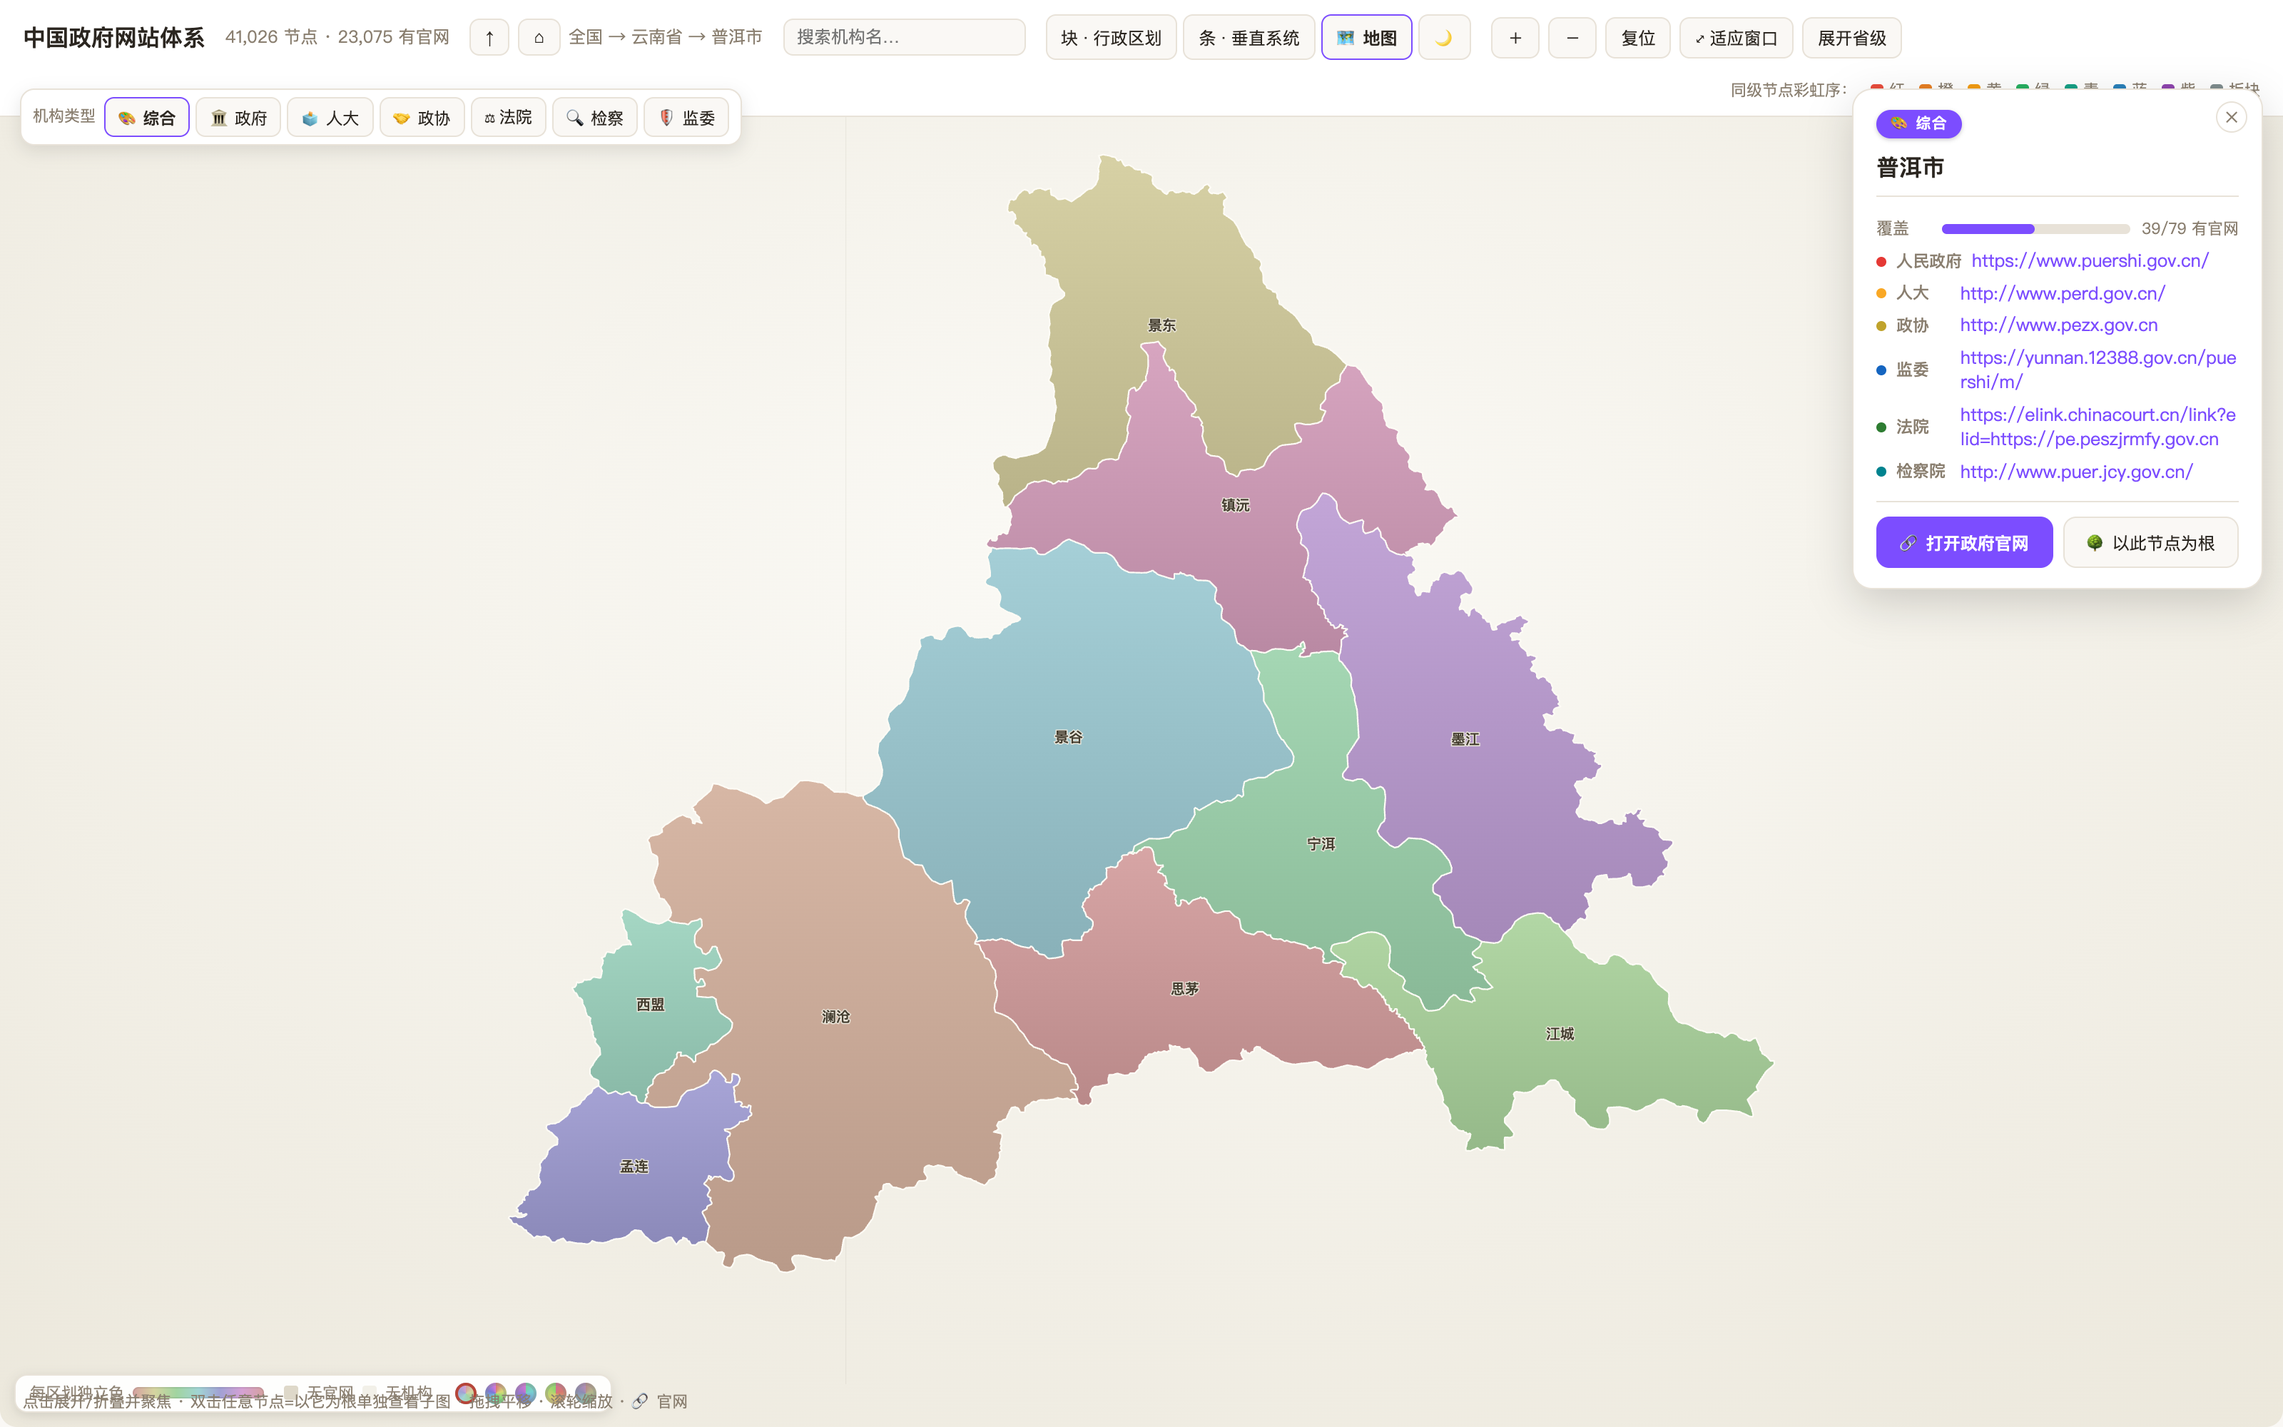
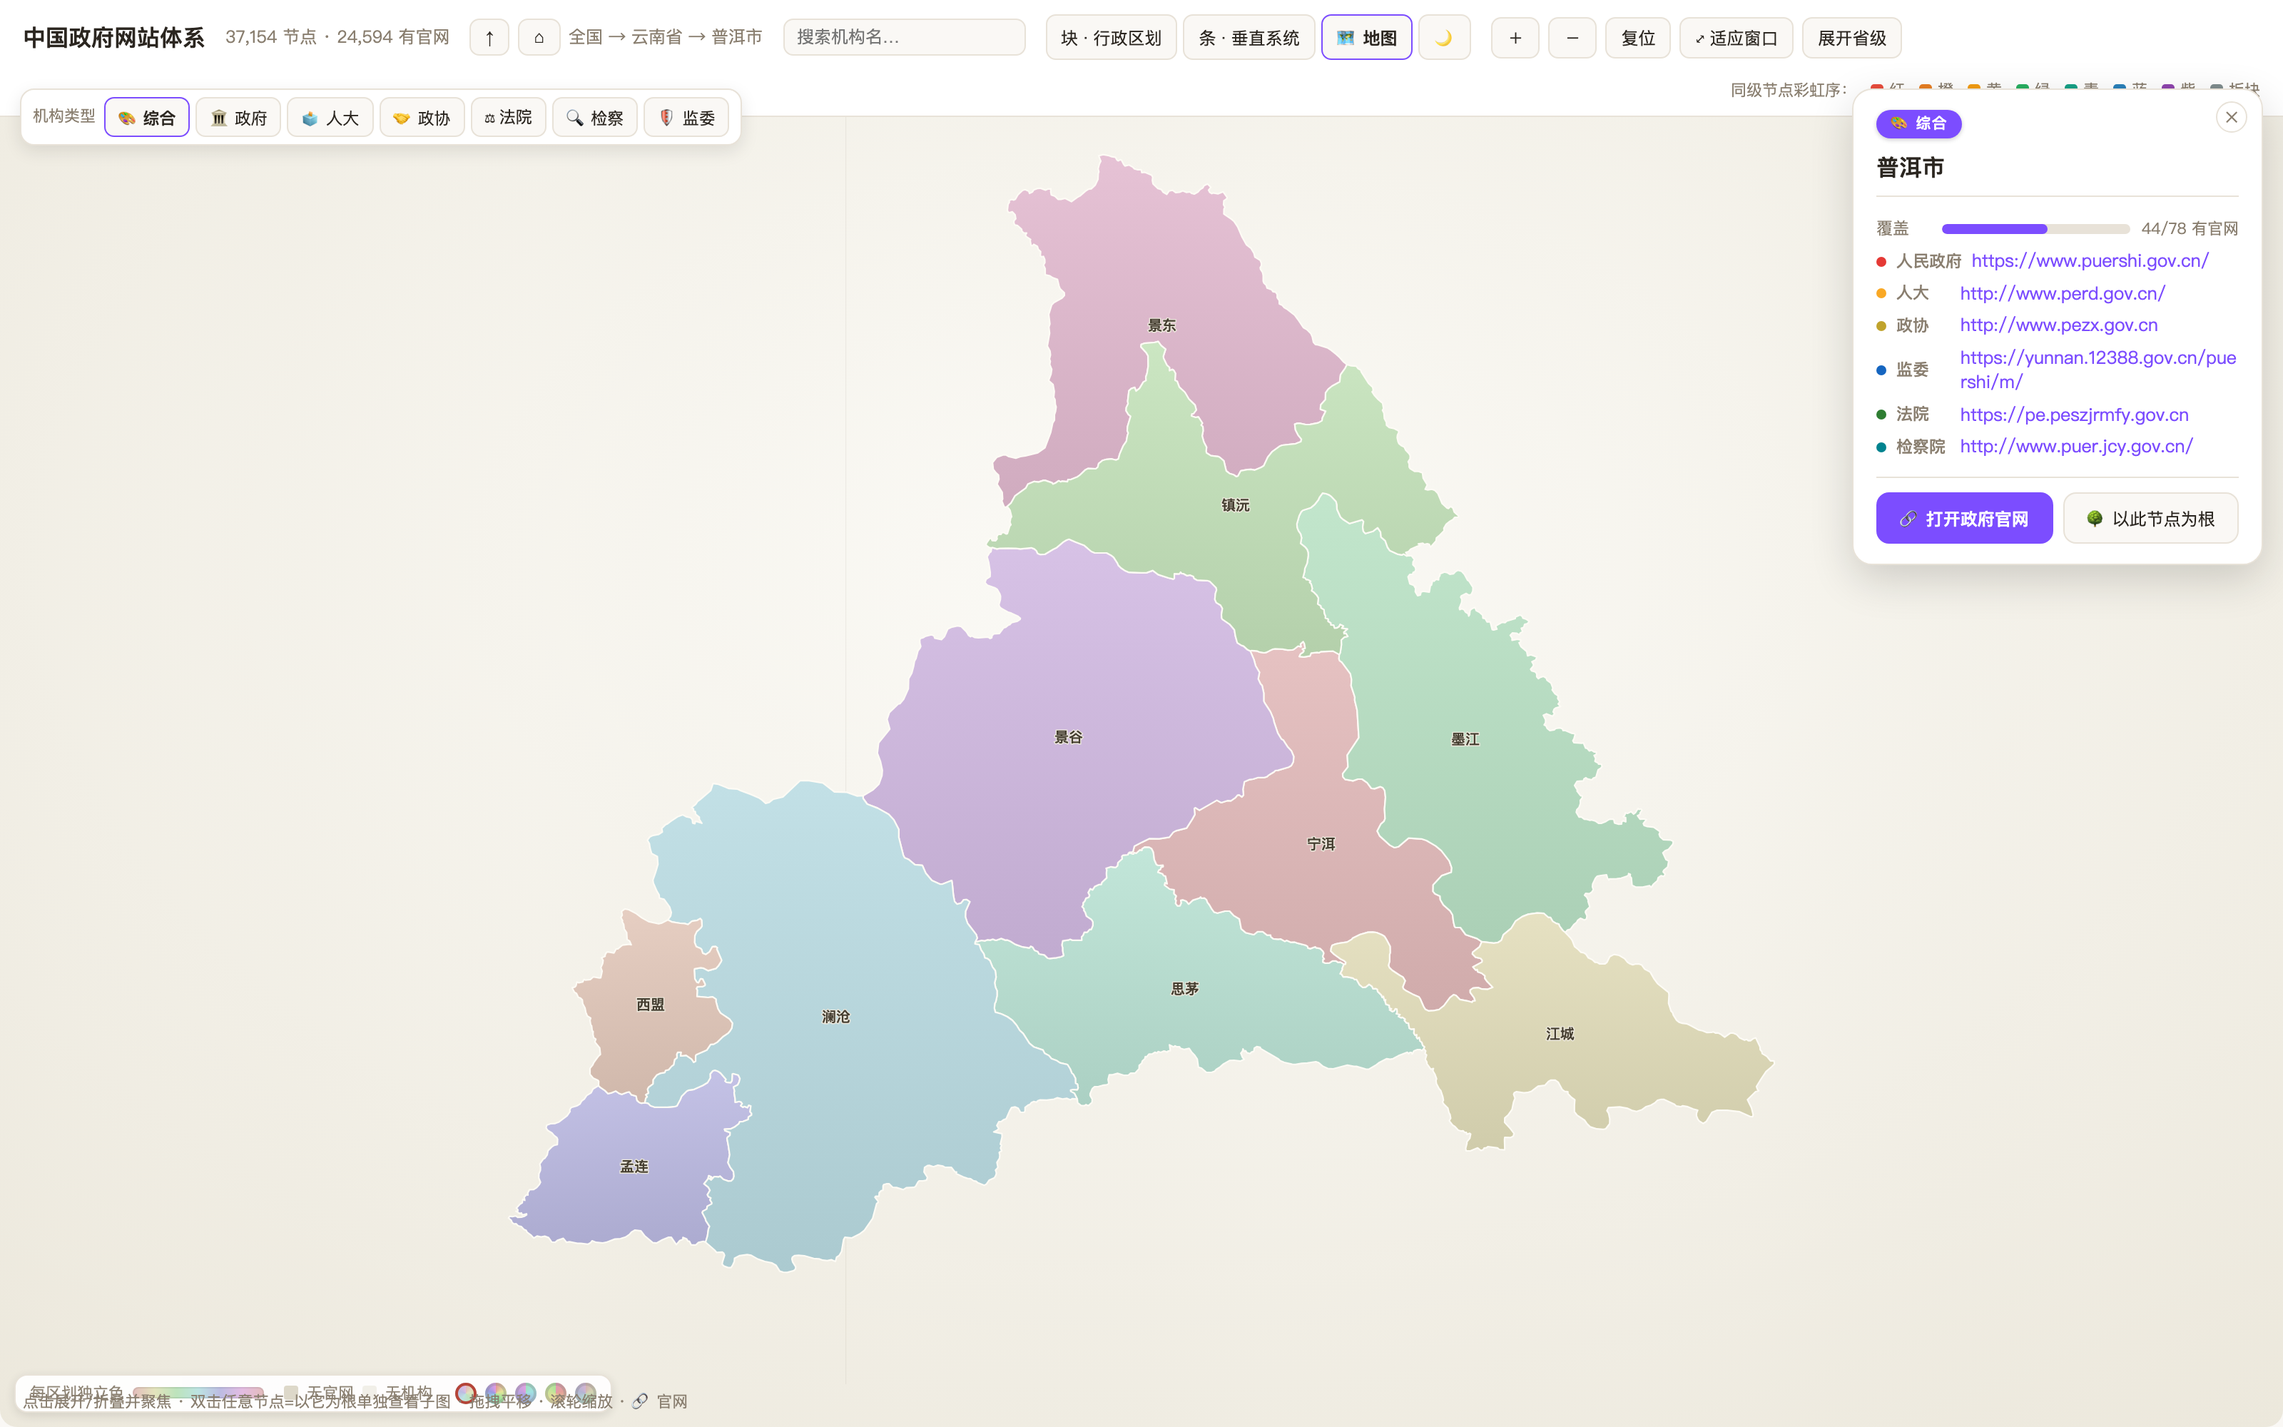
docs: 刷新 README 统计与地图截图（2026-11-18）
- 地图截图按提亮后的配色重新生成（全国 / 四川 / 普洱 / 夜晚，3200×2000），
  顶部节点与有官网数同步为当前数据
- 覆盖统计更新为 2026-11-18 p221 口径：省级 9.84% / 市级 4.76% / 县级 31.66%
- 县级人民政府民政口径 2,760/2,776 = 99.42%（含功能区 97.15%）；未覆盖 16 个
  逐类留痕，新增 11-18 URL 身份核查清除待补的 4 个区县与 2 个功能区形态
- 五系统缺失率、注册表条目/来源/健康状态、树节点数更新为当前值
- 配色说明点名五套方案（粉彩/彩虹/青绿/暖阳/莫兰迪）
- 附带 p99 自检记录（0 问题）

diff --git a/README.md b/README.md
@@ -27,12 +27,13 @@
 
 <br>
 
-[![县级人民政府覆盖率 99.64%](https://img.shields.io/badge/%E5%8E%BF%E7%BA%A7%E4%BA%BA%E6%B0%91%E6%94%BF%E5%BA%9C%E8%A6%86%E7%9B%96%E7%8E%87-99.64%25-2EA44F?style=for-the-badge)](#county-coverage)
+[![县级人民政府覆盖率 99.42%](https://img.shields.io/badge/%E5%8E%BF%E7%BA%A7%E4%BA%BA%E6%B0%91%E6%94%BF%E5%BA%9C%E8%A6%86%E7%9B%96%E7%8E%87-99.42%25-2EA44F?style=for-the-badge)](#county-coverage)
 [![地级市人民政府 100%](https://img.shields.io/badge/%E5%9C%B0%E7%BA%A7%E5%B8%82%E4%BA%BA%E6%B0%91%E6%94%BF%E5%BA%9C-100%25-0A7CFF?style=for-the-badge)](#county-coverage)
 
-**2,768 / 2,778 个县级人民政府拥有官网入口**（民政区划口径，不含开发区 / 高新区 / 示范区
-等功能区节点）。剩余 10 个：三沙海岛区划 ×5、金门县、新设和康 / 和安县，以及万宁、保亭
-两个待补缺口——**没有一个靠猜测补上，全部留名留痕。**
+**2,760 / 2,776 个县级人民政府拥有官网入口**（民政区划口径，不含开发区 / 高新区 / 示范区
+等功能区节点）。未覆盖 16 个全部留名留痕：三沙海岛区划 ×5、金门县、新设和康 / 和安县、
+万宁 / 保亭两个待补缺口（10 个），2026-11-18 全量 URL 身份核查判出跨地区串站后清除、
+正确入口待补的 4 个，以及实体为功能区的 2 个——**没有一个靠猜测补上。**
 
 <br><br>
 
@@ -70,12 +71,12 @@ mass organizations and the health system.</i></sub>
 | 特性 | 说明 |
 |---|---|
 | 🧭 **块 × 条双维树** | 同一机构在行政区划视图与垂直系统视图各出现一次，共用 `site_registry.json` 注册表，一个机构一条记录 |
-| 🏆 **县级覆盖 99.64%** | **2,768 个县级人民政府官网入口**；仅 10 个特殊区划留名（三沙海岛 / 金门 / 新设县），无一猜测 |
+| 🏆 **县级覆盖 99.42%** | **2,760 个县级人民政府官网入口**；未覆盖 16 个全部留名留痕（10 个特殊区划 / 待补、4 个 URL 审计清除待补、2 个功能区形态），无一猜测 |
 | 🗺 **三级下钻地图** | 全国省界 → 省级看市级 → 市级看县级；港澳台、直辖市区县、兵团市等特例均已兼容 |
-| 🎨 **每区划独立配色** | 覆盖率升序 × 黄金角 137.508° 全环展开，相邻覆盖率色距恒定；5 套配色方案、白天 / 夜晚主题 |
+| 🎨 **每区划独立配色** | 覆盖率升序 × 黄金角 137.508° 全环展开，相邻覆盖率色距恒定；粉彩 / 彩虹 / 青绿 / 暖阳 / 莫兰迪 5 套明亮配色、白天 / 夜晚主题 |
 | 🌐 **纯静态、无外链** | 地图为纯手写 SVG（无 ECharts / D3），边界数据本地化惰性加载，支持 `file://` 直开 |
 | 🔍 **来源分级与留痕** | 注册表记录 `source_level`（L1 官网名录 / L2 门户导航 / L3 兜底验证）、来源、快照、验证时间 |
-| 🩺 **健康巡检** | URL 全量巡检 `ok / dead / maintain`，连续两轮 dead 才列名；`verified_at` 记录复验时间 |
+| 🩺 **健康巡检** | URL 全量巡检 `ok / rooted / dead / maintain`，连续两轮 dead 才列名；`verified_at` 记录复验时间 |
 | 📦 **快照与备份** | 采集快照（snapshots）、结构变更前自动备份、发布包三道校验（引用完整 / 限额 / 泄漏） |
 | 🔎 **可核查性** | 提取规则、来源留痕、缺失原因全部随数据发布，宁可空缺也不采信未验证链接 |
 
@@ -133,7 +134,7 @@ mass organizations and the health system.</i></sub>
 ## 📊 数据覆盖
 
 统计由 [`data/p221_url_stats.py`](data/p221_url_stats.py) 自动生成（p22 管线调用，
-**统计生成日期：2026-11-17**），完整报告见 [`data/URL_STATS.md`](data/URL_STATS.md)；
+**统计生成日期：2026-11-18**），完整报告见 [`data/URL_STATS.md`](data/URL_STATS.md)；
 站点右上角「数据健康」面板同步展示。
 「缺失」= 树中该机构**无官网**（`u=""`，列名展示），不代表官网已失效（死链由注册表
 `status` 字段单独承载）。
@@ -142,55 +143,61 @@ mass organizations and the health system.</i></sub>
 
 | 等级 | 机构数 | 有官网 | 缺失 | 缺失率 |
 |---|---:|---:|---:|---:|
-| 省级 | 2,216 | 2,014 | 202 | 9.12% |
-| 市级 | 8,607 | 8,312 | 295 | 3.43% |
-| 县级 | 16,805 | 11,550 | 5,255 | 31.27% |
-| **合计** | **27,628** | **21,876** | **5,752** | **20.82%** |
+| 省级 | 2,216 | 1,998 | 218 | 9.84% |
+| 市级 | 8,335 | 7,938 | 397 | 4.76% |
+| 县级 | 16,805 | 11,484 | 5,321 | 31.66% |
+| **合计** | **27,356** | **21,420** | **5,936** | **21.70%** |
 
 ### 🏆 县级人民政府：王牌指标
 
 <a id="county-coverage"></a>
 
 > 全国 2,900+ 个县级节点、300+ 个市级门户、逐站 JS 渲染 / 下拉 / 别名 / 简称 / 民族语 /
-> 合署更名形态逐一攻克——**县级人民政府官网覆盖率达到 99.64%**，这在公开、可核查的
+> 合署更名形态逐一攻克——**县级人民政府官网覆盖率达到 99.42%**，这在公开、可核查的
 > 政府网站数据中极为罕见。
 
 | 口径 | 覆盖率 | 说明 |
 |---|---:|---|
-| **县级人民政府（民政区划口径）** | **2,768 / 2,778 = 99.64%** | 剔除开发区 / 高新区 / 示范区 / 管理区等非民政区划序列的功能区节点 |
-| 县级人民政府（含功能区，官方统计口径） | 2,833 / 2,910 = 97.35% | p221 自动统计；功能区/管委会多数无独立门户，属正常形态 |
+| **县级人民政府（民政区划口径）** | **2,760 / 2,776 = 99.42%** | 剔除开发区 / 高新区 / 示范区 / 管理区等非民政区划序列的功能区节点 |
+| 县级人民政府（含功能区，官方统计口径） | 2,827 / 2,910 = 97.15% | p221 自动统计；功能区/管委会多数无独立门户，属正常形态 |
 | 地级市人民政府 | 333 / 333 = 100% | 全国 333 个地级市（地区 / 州 / 盟）全部覆盖 |
 | 省级人民政府 | 32 / 32 = 100% | 31 省区市 + 新疆兵团（台湾省无大陆政府门户，另计） |
 | 直辖市辖区 | 73 / 74 = 98.65% | 渝北区因 2025 年区划调整并入两江新区，机构本身已不存在 |
 
-未覆盖的 10 个县级单位全部**留名 + 留痕**，无一猜测：
+未覆盖的 16 个县级单位全部**留名 + 留痕**，无一猜测：
 
 - 三沙市西沙区、南沙区、西沙群岛、南沙群岛、中沙群岛（5 个）：海岛区划，无县级政府门户网站；
 - 金门县：实际由台湾当局管辖，无大陆人民政府门户；
 - 和康县、和安县（新疆和田）：新设县，官网尚未建成；
-- 万宁市、保亭黎族苗族自治县（海南）：待补数据缺口，已列入采集清单。
+- 万宁市、保亭黎族苗族自治县（海南）：待补数据缺口，已列入采集清单；
+- 石家庄市桥西区、连云港市海州区、铜陵市郊区、同仁市（青海黄南）：2026-11-18 全量
+  URL 身份核查判出跨地区串站（错挂张家口桥西区、阜新海州区、阳泉郊区等站）后清除，
+  正确入口待补——**宁可空缺，不留错链**；
+- 吉林中国新加坡食品区、商丘豫东综合物流产业聚集区：实体为功能区 / 聚集区，
+  无独立人民政府门户。
 
-> 换句话说：**除体制性无官网和新设县外，中国大陆每一个县级人民政府的官网入口都在这里。**
-> 这 2,768 个入口均来自官方页面真实 HTML（上级名录 / 门户导航提取，SERP 仅作线索并经
+> 换句话说：**除体制性无官网、新设县和 4 个审计清除待补的区县外，中国大陆每一个县级
+> 人民政府的官网入口都在这里。**
+> 这 2,760 个入口均来自官方页面真实 HTML（上级名录 / 门户导航提取，SERP 仅作线索并经
 > 标题身份验证），不是搜索结果拼凑，更不是域名猜测。
 
 ### 分系统 × 等级 缺失率
 
 | 系统 | 省级 | 市级 | 县级 | 合计 |
 |---|---:|---:|---:|---:|
-| 政府门户 | 0.00% | 0.25% | 2.65% | 2.33% |
-| 政府部门（厅局 / 市局） | 0.00% | 0.00% | — | 0.00% |
-| 人大 | 0.00% | 15.80% | 69.20% | 61.80% |
-| 政协 | 0.00% | 33.33% | 82.66% | 75.65% |
-| 监委 / 纪委 | 0.00% | 5.93% | 4.14% | 4.32% |
-| 法院 | 0.00% | 8.15% | 13.60% | 12.78% |
-| 检察院 | 0.00% | 9.38% | 16.73% | 15.65% |
-| 群团 | 25.92% | 0.00% | — | 19.50% |
+| 政府门户 | 0.00% | 0.49% | 2.85% | 2.54% |
+| 政府部门（厅局 / 市局） | 0.40% | 1.08% | — | 0.96% |
+| 人大 | 0.00% | 15.80% | 69.63% | 62.18% |
+| 政协 | 0.00% | 33.33% | 83.05% | 75.99% |
+| 监委 / 纪委 | 0.00% | 8.89% | 5.11% | 5.54% |
+| 法院 | 0.00% | 8.15% | 13.78% | 12.94% |
+| 检察院 | 0.00% | 9.63% | 16.91% | 15.83% |
+| 群团 | 27.94% | 14.53% | — | 24.62% |
 | 民主党派 | 24.70% | — | — | 24.70% |
 
-> **读法**：政府门户与政府部门已基本全覆盖（缺失率 ≤ 2.65%）；县级监委通过中央纪委
-> 12388 举报网站名录体系补齐至 **95.9% 有官网**（2,664 / 2,779）；市级监委 94.1%
-> （381 / 405）。县级人大 / 政协仍是最大缺口（缺失 69.2% / 82.7%），原因有两层：
+> **读法**：政府门户与政府部门已基本全覆盖（缺失率 ≤ 2.85%）；县级监委通过中央纪委
+> 12388 举报网站名录体系补齐至 **94.9% 有官网**（2,637 / 2,779）；市级监委 91.1%
+> （369 / 405）。县级人大 / 政协仍是最大缺口（缺失 69.6% / 83.1%），原因有两层：
 > ① 区县人大、政协绝大多数没有独立门户，其内容以「领导之窗 / 建议提案办理 /
 > 会议报道」等**门户栏目**形式挂在县政府门户下——2026-11-17 全量复核把这类
 > 栏目页（约 400 条）判为「非机构官网」清出，宁缺毋滥；② 真正独立建站的县级
@@ -202,11 +209,11 @@ mass organizations and the health system.</i></sub>
 
 | 指标 | 数值 |
 |---|---:|
-| 官网注册记录（去重后，有 URL） | 25,364 |
-| 注册表条目（含审计清空的历史条目） | 25,815 |
-| 来源 L1 官网名录 / L2 门户导航 / L3 兜底验证 | 8,873 / 14,112 / 2,379 |
-| 健康状态 ok / maintain / dead / 未巡检 | 22,992 / 42 / 517 / 1,813 |
-| 树节点（块树 + 条树，含分组容器） | 37,426 + 17,687 |
+| 官网注册记录（去重后，有 URL） | 25,281 |
+| 注册表条目（含审计清空的历史条目） | 25,904 |
+| 来源 L1 官网名录 / L2 门户导航 / L3 兜底验证 | 8,963 / 14,374 / 2,567 |
+| 健康状态 ok / rooted / maintain / dead / 未巡检 | 22,671 / 284 / 28 / 510 / 1,788 |
+| 树节点（块树 + 条树，含分组容器） | 34,650 + 15,345 |
 | 行政区划边界文件（DataV + 港澳 + 台湾） | 360+ / 约 27 MB |
 
 ---
@@ -475,7 +482,7 @@ svg
 
 1. **深聚合统计** `calcStats(t)`：块树 DFS——每个区划节点递归整棵子树，按机构类型统计「有官网/总数」（省=全省辖域、市=全市、县=全县）；兼容省级节点 `t="group"` 挂 u、直辖市辖区 `c=直辖市辖区` 等形态
 2. **取值** `covOf(name)`：当前类型覆盖率；名称经 `baseName` 归一（剥行政区后缀+民族修饰+「（…）」尾注）——geo 特征名、树节点名、官网简称三方互通
-3. **每区划独立色**：有数据的区划按覆盖率升序 × 黄金角（137.508°）在色环展开，相邻覆盖率色距恒定；灰 = 无官网/无机构（5 套配色方案可在图例切换）
+3. **每区划独立色**：有数据的区划按覆盖率升序 × 黄金角（137.508°）在色环展开，相邻覆盖率色距恒定；灰 = 无官网/无机构（粉彩 / 彩虹 / 青绿 / 暖阳 / 莫兰迪 5 套明亮配色可在图例切换，2026-11-18 整体提亮）
 4. **末级降级**：区县级单类型数据天然二元（每县该类型机构仅 1 个, 有/无）→ 无差异可显时自动改按**综合覆盖**着色（`fillCache`），tooltip/详情仍显示该类型真实值（`covCache` 分离）
 5. **填色** `colorOf`：按区划取调色板颜色；hover/选中另加描边与光晕
 

diff --git a/data/weekend_report.md b/data/weekend_report.md
@@ -3312,3 +3312,14 @@
 - ✅ **屏山县 511529 采样**: 县直部门 deptSwitch URL: https://www.sczwfw.gov.cn/jiq/front/channel/deptSwitch?areaCode=511529000000
   - 屏山县法检: 1/2 有独立门户 URL
 - ✅ **总体**: 问题项 0 个
+
+## 自检 2026-11-18 12:40:19
+- ✅ **p29 进度**: 已完成 2955/2962 门户，命中 1219 条 （人大 349、政协 302、检察院 155、法院 159、监委 254）
+- ✅ **cc_parallel 一致性**: jsonl 1219 行 vs state 1219 行
+- ✅ **规则总量**: 共 7830 条，其中县级(6位码) 2980 条
+- ✅ **县级法院/检察院回填**: 1646/2980 个县已有法检独立门户 URL（随采集增长）
+- ✅ **data_js 拆分一致性**: rulesFiles 7830 条（rules 7830 条），缺失文件 0
+- ✅ **HTML 构建**: HTML 11-18 12:36 >= manifest 11-18 12:18
+- ✅ **屏山县 511529 采样**: 县直部门 deptSwitch URL: https://www.sczwfw.gov.cn/jiq/front/channel/deptSwitch?areaCode=511529000000
+  - 屏山县法检: 1/2 有独立门户 URL
+- ✅ **总体**: 问题项 0 个
